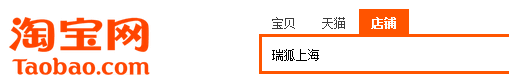
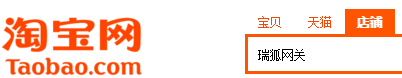
update taobao href

diff --git a/templates/taobao.html b/templates/taobao.html
@@ -3,15 +3,16 @@
 		<div class="panel-heading">充值</div>
 		<div class="panel-body">
 			<p>
-				浏览器直接打开充值主页<a href="https://ripplefox.taobao.com/" target="_blank">https://ripplefox.taobao.com/</a><br>
+				浏览器直接打开淘宝充值主页 <a href="https://shop109149722.taobao.com" target="_blank">瑞狐网关</a> 或者 <a href="https://ripplefox.taobao.com/" target="_blank">瑞狐上海</a><br>
 				或<br>
-				淘宝主页里搜索<span class="text-danger">店铺</span>（不是宝贝），店铺名：瑞狐上海<br>
+				淘宝主页里搜索<span class="text-danger">店铺</span>（不是宝贝），店铺名：瑞狐网关<br>
+				我们有两个店，互为补充。目前瑞狐网关店充值有优惠。<br>
 				<img class="img-thumbnail img-responsive" src="img/taobao/taobao.png">
 			</p>
 			
 			<p>
 				点选所要的金额，然后点立即购买。在提交订单时，填入钱包地址。<br>
-				地址就在钱包右上角，在线钱包用户要点开右上角齿轮，然后看账户。<br>
+				地址就在钱包右上角，要填到<strong>给卖家留言</strong>的框里。只写地址，不要有中文或空格。<br>
 				<img class="img-thumbnail img-responsive" src="img/taobao/order.png">
 			</p>
 			<p>

diff --git a/templates/create.html b/templates/create.html
@@ -3,7 +3,7 @@
 		<div class="panel-heading">选择语言</div>
 		<div class="panel-body">
 			<p>
-				如果没有钱包，请先<a href="http://download.ripplefox.com" target="_blank">下载离线钱包</a>。在线钱包和离线钱包操作几乎一样。
+				如果没有钱包，请先<a href="http://download.ripplefox.com" target="_blank">下载离线钱包</a>。建议到瑞狐交流QQ群389185252的群文件里下载。
 			</p>
 			<p>打开钱包后，右下角选择中文。</p>
 			<img class="img-thumbnail img-responsive" src="img/create/language.jpg">

diff --git a/templates/home.html b/templates/home.html
@@ -37,6 +37,10 @@
 				<div class="message">
 					<a href="#/create">开始学习教程 - 创建钱包</a>
 				</div>
+				<hr />
+				<div class="message">
+					<a href="https://stellar.chat/board-8.0.html" target="_blank">恒星论坛 - 讨论区块链的社区</a>
+				</div>
    			</rd-widget-body>
    		</rd-widget>
 	</div>

diff --git a/index.html b/index.html
@@ -75,7 +75,7 @@
           </a>
         </div>
         <div class="col-xs-6">
-          <a href="https://ripplefox.taobao.com" target="_blank">
+          <a href="https://shop109149722.taobao.com" target="_blank">
           	淘宝充值
           </a>
         </div>
